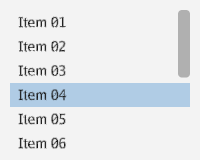
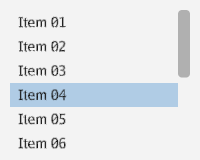
fix(controls): keep ListView selection band clear of the scrollbar
The band was drawn at full bounds width, running behind the translucent
scroll thumb so the highlight showed through it. Reserve the thumb gutter
only when the list actually scrolls, and draw the band at the viewport
width: a non-scrolling list (no thumb) is still edge-to-edge, while a
scrolling list's band stops at the gutter, fully beside the scrollbar.
Regenerated listview.png.

Changed region(s): [[0.87, 0.5, 0.96, 0.6875]]

diff --git a/controls/listview.go b/controls/listview.go
@@ -347,7 +347,16 @@ func (l *ListView) MeasureContent(available render.Size) render.Size {
 // re-text below, since a selection change alone — no text change — must
 // still repaint the right rows the next time this runs).
 func (l *ListView) ArrangeContent(bounds render.Rect) {
-	viewport := bounds.Inset(render.Thickness{Right: l.gutter})
+	// Reserve the thumb gutter only when the content actually scrolls. When
+	// it fits (no thumb), the viewport is the full bounds so rows and the
+	// selection band reach the right edge; when it scrolls, the gutter keeps
+	// the band clear of the (translucent) thumb so the highlight sits fully
+	// beside the scrollbar rather than bleeding through it.
+	gutter := float32(0)
+	if l.totalHeight() > bounds.H {
+		gutter = l.gutter
+	}
+	viewport := bounds.Inset(render.Thickness{Right: gutter})
 	if viewport.W < 0 {
 		viewport.W = 0
 	}
@@ -441,15 +450,14 @@ func (l *ListView) Render(r render.Renderer) {
 	if l.selected < l.visibleFirst || l.selected >= last {
 		return
 	}
-	// The band spans the ListView's FULL width (edge to edge), not the
-	// gutter-inset viewport: the selection highlight reaches both edges of
-	// the row while the text stays padded within it (the scroll thumb, drawn
-	// in RenderOverlay, sits on top of the band's right end when present).
-	b := l.Bounds()
+	// The band spans the viewport width. When the list doesn't scroll the
+	// viewport is the full bounds (ArrangeContent reserves no gutter), so the
+	// band is edge-to-edge; when it scrolls, the band stops at the gutter so
+	// it stays clear of the translucent thumb rather than showing through it.
 	rowRect := render.Rect{
-		X: b.X,
+		X: l.viewport.X,
 		Y: l.viewport.Y + float32(l.selected)*l.rowH - l.offset,
-		W: b.W,
+		W: l.viewport.W,
 		H: l.rowH,
 	}
 	r.FillRect(rowRect, l.colors.SelectionBackground)
